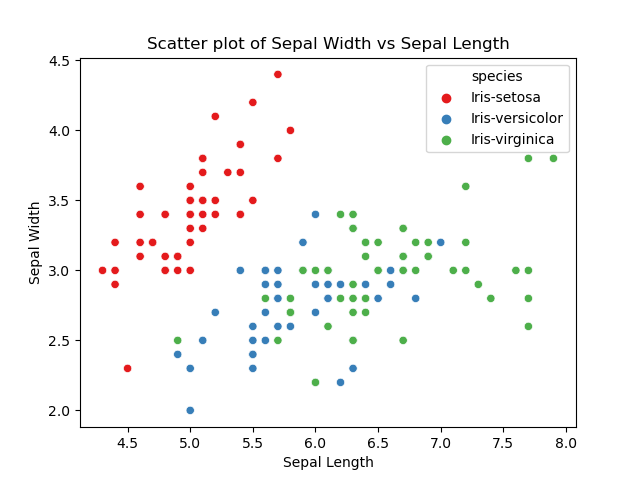
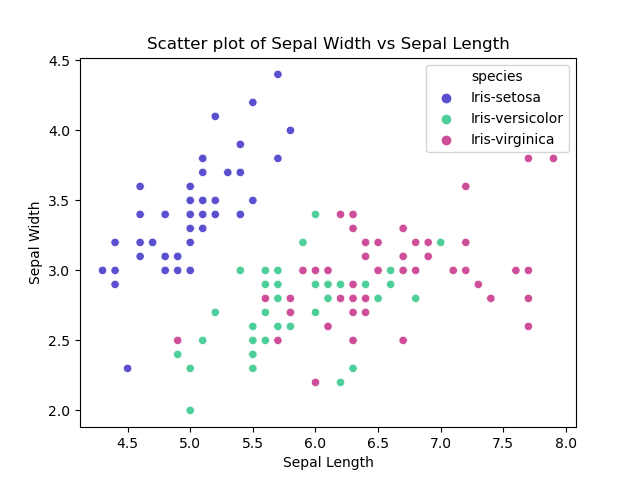
getting started section, new colour palette for plots

diff --git a/analysis.py b/analysis.py
@@ -5,8 +5,9 @@ import seaborn as sns
 
 import plotting as pt
 
-# Setting up seaborn palette of 'Set1'
-sns.set_palette("Set1")
+# Set up seaborn colour palette. #5A4FCF is the colour code for iris. 
+colors = ['#5A4FCF', '#4ECF99', '#CF4E99']
+sns.set_palette(colors)
 
 # Import the data set, add headings to the columns.
 iris = pd.read_csv("iris_data.csv", names = ['sepal_length', 'sepal_width', 'petal_length', 'petal_width', 'species'])
@@ -153,7 +154,7 @@ pt.plot_scatter(iris, hue = 'species')
 g = sns.pairplot(iris, hue = 'species')
 g.fig.suptitle('Pair Plot of the Numeric Variables in the Iris Data Set', y = 1.05)
 plt.savefig('plots\\Pair_plot.png')
-plt.close
+plt.close()
 
 
 
@@ -215,7 +216,7 @@ fig, ax = plt.subplots()
 ax.scatter(sepal_length_array, sepal_width_array)
 
 # Plotting the trend line. The y-axis values are generated from the equation of the line, with m and c equal to the values generated above.
-ax.plot(sepal_length_array, m * sepal_length_array + c, 'g-')
+ax.plot(sepal_length_array, m * sepal_length_array + c, '#CF4E99')
 
 # Axis labels.
 plt.xlabel('Sepal Length (cm)')
@@ -229,20 +230,20 @@ plt.close()
 fig, ax = plt.subplots(2, 2, figsize = (15, 10))
 
 # Regression plot between sepal length and sepal width
-sns.regplot(iris, x = 'sepal_length', y = 'sepal_width', ax = ax[0, 0])
+sns.regplot(iris, x = 'sepal_length', y = 'sepal_width', ax = ax[0, 0], ci = None)
 
 # Regression plot between sepal width and sepal length by species
-sns.regplot(setosa, x = 'sepal_length', y = 'sepal_width', ax = ax[0, 1], label = 'setosa')
-sns.regplot(versicolor, x = 'sepal_length', y = 'sepal_width', ax = ax[0, 1], label = 'versicolor')
-sns.regplot(virginica, x = 'sepal_length', y = 'sepal_width', ax = ax[0, 1], label = 'virginica')
+sns.regplot(setosa, x = 'sepal_length', y = 'sepal_width', ax = ax[0, 1], label = 'setosa', ci = None)
+sns.regplot(versicolor, x = 'sepal_length', y = 'sepal_width', ax = ax[0, 1], label = 'versicolor', ci = None)
+sns.regplot(virginica, x = 'sepal_length', y = 'sepal_width', ax = ax[0, 1], label = 'virginica', ci = None)
 
 # Regression plot between petal length and petal width
-sns.regplot(iris, x = 'petal_length', y = 'petal_width', ax = ax[1, 0])
+sns.regplot(iris, x = 'petal_length', y = 'petal_width', ax = ax[1, 0], ci = None)
 
 # Regression plot between petal length and petal width by species
-sns.regplot(setosa, x = 'petal_length', y = 'petal_width', ax = ax[1, 1], label = 'setosa')
-sns.regplot(versicolor, x = 'petal_length', y = 'petal_width', ax = ax[1, 1], label = 'versicolor')
-sns.regplot(virginica, x = 'petal_length', y = 'petal_width', ax = ax[1, 1], label = 'virginica')
+sns.regplot(setosa, x = 'petal_length', y = 'petal_width', ax = ax[1, 1], label = 'setosa', ci = None)
+sns.regplot(versicolor, x = 'petal_length', y = 'petal_width', ax = ax[1, 1], label = 'versicolor', ci = None)
+sns.regplot(virginica, x = 'petal_length', y = 'petal_width', ax = ax[1, 1], label = 'virginica', ci = None)
 
 # Add title
 plt.suptitle('Some Regression Plots for Iris Data Set')
@@ -272,9 +273,10 @@ plt.close()
 sns.pairplot(iris, hue = 'species', kind = 'reg')
 plt.suptitle('Regression Pair Plot of the Numeric Variables in the Iris Data Set', y = 1.05)
 plt.savefig('C:\\Users\\Martin\\Desktop\\pands\\pands-project\\plots\\Pair_Regression_plots.png')
+plt.close()
 
 # lmplot example. Sepal Width vs Sepal Length
-sns.lmplot(iris, x = 'sepal_length', y = 'sepal_width', col = 'species')
+sns.lmplot(iris, x = 'sepal_length', y = 'sepal_width', ci = None, col = 'species')
 plt.suptitle('Sepal Width vs Sepal Length by Species', y = 1.05)
 plt.savefig('C:\\Users\\Martin\\Desktop\\pands\\pands-project\\plots\\lmplot_example.png')
 plt.close()
@@ -319,14 +321,14 @@ print(f'slope:' , reg.coef_)
 print(f'intercept:' , reg.intercept_)
 
 # Scatter plot of petal width vs petal lenght and line plot of the predicted values.
-plt.scatter(X_train, y_train, color = 'b')
-plt.plot(X_test, y_pred, color = 'r')
+plt.scatter(X_train, y_train)
+plt.plot(X_test, y_pred, color = '#CF4E99')
 
 # Label the x-axis and y-axis
 plt.xlabel('Petal Length (cm)')
-plt.ylabel('Petal width (cm)')
-plt.savefig('plots\\linear_regression_analysis.png')
-
+plt.ylabel('Petal Width (cm)')
+plt.savefig('C:\\Users\\Martin\\Desktop\\pands\\pands-project\\plots\\lg_analysis.png')
+plt.close()
 
 
 

diff --git a/README.md b/README.md
@@ -1,61 +1,68 @@
 
-![Banner](https://github.com/IreneKilgannon/pands-project/blob/main/Fisher%E2%80%99s%20Iris%20Data%20Set.png)
+<center><img src = "Fisher’s Iris Data Set.png" alt = "iris banner"></center>
+
 
 Author: Irene Kilgannon
 
-Student ID G00220627
+Student ID: G00220627
 
-This is my analysis of the Fisher's Iris data set for the programming and scripting module.
+This is my analysis of the Fisher's Iris data set for the programming and scripting module for the [Higher Diploma in Science in Computing in Data Analytics](https://www.gmit.ie/higher-diploma-in-science-in-computing-in-data-analytics) at Atlantic Technological University.
 
-## Making a plan
-1. Using a readme for discussion  ~~decided~~.
-2. background research add some images
-3. write summary statistics to .txt file -  ~~done~~. Discussion next
-4. histograms - created a function, Create a module with all the plotting files?. Add discussion
-5. scatter plot /pair plot between all the variables. Add discussion
-6. perhaps some linear regression plots. DONE
-7. calculate correlation coefficients, ~~fix labels on heatmap~~. add discussion
-8. regression analysis https://campus.datacamp.com/courses/introduction-to-regression-with-statsmodels-in-python/simple-linear-regression-modeling?ex=1
-9. machine learning sklearn
+## Left to do
 
-
-Ideally I would create modules, with all the functions required for the file and import them. Having trouble with this. Probably classes would be better but I don't understand, know enough about them!
+NB add literature comparison, add more references where ever needed. 
+1. background research  images
+2. Get started section
+4. Summary statistics. use groubpy by, Improve Discussion
+5. histograms. review
+6. scatter plot. review
+7. correlation coefficients, review 
+8. regression analysis and machine learning https://campus.datacamp.com/courses/introduction-to-regression-with-statsmodels-in-python/simple-linear-regression-modeling?ex=1  add code comments, discussion, 
 
 ## Project Statement
-* Research the data set and summarise it in a README.
-* Download the data set and add it to my repository.
-* Write a program called analysis.py: 
-    1. outputs a summary of each variable to a single text file
-    2. saves a histogram of each variable to png files
-    3. outputs a scatter plot of each pair of variables
-    4. any other analysis - suggested machine learning or regression analysis?? LEARN about them.
+* Research the data set and summarise it in a [README](https://github.com/IreneKilgannon/pands-project/blob/main/README.md).
+* Download the data set and add it to my [GitHub repository](https://github.com/IreneKilgannon/pands-project).
+* Write a program called [analysis.py](https://github.com/IreneKilgannon/pands-project/blob/main/analysis.py): 
+    1. outputs a summary of each variable to a single text file, [analysis.txt](https://github.com/IreneKilgannon/pands-project/blob/main/analysis.txt)
+    2. saves a histogram of each variable to png files.
+    3. outputs a scatter plot of each pair of variables.
+    4. any other analysis.
 
-## How to install
+## Getting Started
 
-## How to use it
+__Step 1__ Download and install [Anaconda](https://www.anaconda.com/download). Anaconda is a Python distributon package and comes with pre-installed packages such as [pandas](https://pandas.pydata.org/docs/user_guide/index.html#user-guide), [NumPy](https://numpy.org/doc/stable/user/whatisnumpy.html), [Matplotlib](https://matplotlib.org/) and [Seaborn](https://seaborn.pydata.org/) which are required for this project. Please note that when installing Anaconda it is important to check the two boxes for:
+  * Add Anaconda3 to my PATH environment 
+  * Make this version your default Python
+  
+![Anaconda](Anaconda.png)
 
-## Files in this project
-analysis.py
+__Step 2__ Download and install [Visual Studio Code](https://code.visualstudio.com/).
 
-analysis.ipynb
+__Step 3__ Each file was written in VScode and pushed to [my GitHub account](https://github.com/IreneKilgannon) for assessment.
 
-iris.data
+__Step 4__ To clone from GitHub enter the following in the command line:
 
-README.md
+    git clone https://github.com/IreneKilgannon/pands-project.git
 
-plots directory with all the plots generated for this analysis
+
+## Get Help
+
+If you have any questions or queries you can contact me at g00220627@atu.ie or alternatively [submit an issue](https://github.com/IreneKilgannon/pands-project/issues).
+
+
+***
 
 # Background to Fisher's Iris Data Set
 
-In 1928 Edgar Anderson published his paper entitled ['The Problem of Species in the Northern Blue Flags, _Iris versicolor_ and _Iris virginica_'](https://www.biodiversitylibrary.org/page/15997721). Anderson was a evolutionary biologist interested in answering two questions namely, what are species and how have they originated? Between 1923 and 1928 he and his team studied _Iris versicolor_, at a number of different sites from Ontario in Canada to Alabama in the United States, by measuring a number of different iris characteristics. Surprisingly his study found that there were actually two different iris species present, _Iris versicolor_ and _Iris virginia_ and that it was possible to differentiate between them by geographic location. This is reflected in the [common names of these two species of iris](https://hgic.clemson.edu/factsheet/rain-garden-plants-iris-versicolor-and-iris-virginica/). _Iris versicolor_ is commonly known as the Northern blue flag iris and _Iris virginica_ is commonly known as the Southern blue flag iris.
+In 1928 Edgar Anderson published his paper entitled ['The Problem of Species in the Northern Blue Flags, _Iris versicolor_ and _Iris virginica_'](https://www.biodiversitylibrary.org/page/15997721). Anderson was a evolutionary biologist interested in answering two questions namely, what are species and how have they originated? Between 1923 and 1928 he and his team studied _Iris versicolor_, at a number of different sites from Ontario in Canada to Alabama in the United States, by measuring a number of different iris characteristics. Surprisingly his study found that there were actually two iris species present, _Iris versicolor_ and _Iris virginia_ and that it was possible to differentiate between them by geographic location. This is reflected in the [common names of these two species of iris](https://hgic.clemson.edu/factsheet/rain-garden-plants-iris-versicolor-and-iris-virginica/). _Iris versicolor_ is commonly known as the Northern blue flag iris and _Iris virginica_ is commonly known as the Southern blue flag iris.
 
-ADD IMAGE TO BREAK UP THE TEXT
+![Ronald Fisher in 1913](https://en.wikipedia.org/wiki/Ronald_Fisher#/media/File:Youngronaldfisher2.JPG)
 
-The data set is commonly known as Fisher's Iris Data set after the statistician and biologist, Ronald Fisher. The data measurements for _Iris setosa_ and _Iris versicolor_ were collected by Anderson from the same colony of plants in the Gaspé Peninsula, Quebec in 1935. According to [Unwin and Kleinman](hhttps://academic.oup.com/jrssig/article/18/6/26/7038520) the _Iris virginica_ data samples were from Anderson's original research and were collected in Camden, Tennessee. Fisher collated and analysed the data and in 1936 published his results in the Annals of Eugenics [The Use of Multiple Measurements in Taxonomic Problems](https://onlinelibrary.wiley.com/doi/epdf/10.1111/j.1469-1809.1936.tb02137.x). He used a statistical method, linear discriminant analysis to attempt to distinguish the different iris species from each other. He found that _Iris setosa_ was easily distinguishable from the other two iris species using this method. 
+The data set is commonly known as Fisher's Iris Data set after the statistician and biologist, [Ronald Fisher](https://en.wikipedia.org/wiki/Ronald_Fisher). The data measurements for _Iris setosa_ and _Iris versicolor_ were collected by Anderson from the same colony of plants in the Gaspé Peninsula, Quebec in 1935. According to [Unwin and Kleinman](hhttps://academic.oup.com/jrssig/article/18/6/26/7038520) the _Iris virginica_ data samples were from Anderson's original research and were collected in Camden, Tennessee. Fisher collated and analysed the data and in 1936 published his results in the Annals of Eugenics [The Use of Multiple Measurements in Taxonomic Problems](https://onlinelibrary.wiley.com/doi/epdf/10.1111/j.1469-1809.1936.tb02137.x). He used a statistical method, linear discriminant analysis to attempt to distinguish the different iris species from each other. He found that _Iris setosa_ was easily distinguishable from the other two iris species using this method. 
 
-![Image from Fisher's paper](https://github.com/IreneKilgannon/pands-project/blob/main/fisher_data_set_image.png)
+![Image from Fisher's paper](fisher_data_set_image.png)
 
-Fisher's data set can viewed in his published paper but, in our computer age, the data set is available to download at [UCI Maching Learning Repository](https://archive.ics.uci.edu/dataset/53/iris). The data set is very widely used with currently over 700,000 views of the data set on the UCI website.
+Fisher's data set can viewed in his published paper but, in our computer age, the data set is available to download at [UCI Maching Learning Repository](https://archive.ics.uci.edu/dataset/53/iris). The data set is still very widely used with currently over 700,000 views of the data set on the UCI website. It is worth mentioning that there is a move away from using this data set 
 
 Fisher and racism  -do i put it in?
 
@@ -63,16 +70,17 @@ https://profjoecain.net/what-is-wrong-ronald-aylmer-fisher/
 
 https://www.newstatesman.com/long-reads/2020/07/ra-fisher-and-science-hatred
 
-https://www.nature.com/articles/s41437-020-00394-6
+https://www.nature.com/articles/s41437-020-00394-6  
 
 ## Import the Required Modules.
 
-Four modules are required for this analysis:
+The following modules are required for this analysis:
 
 * [pandas](https://www.w3schools.com/python/pandas/pandas_intro.asp) - for manipulating data and for performing data analysis.
 * [numpy](https://www.w3schools.com/python/numpy/default.asp) - performs a wide variety of mathematical calculations on arrays.
 * [matplotlib.pyplot](https://www.geeksforgeeks.org/python-introduction-matplotlib/) - used to create plots e.g. bar plots, scatter plots, histograms.
 * [seaborn](https://realpython.com/python-seaborn/) - a python data visualisation library based on matplotlib. Usually requires less code syntax than matplotlib.
+* [plotting](https://github.com/IreneKilgannon/pands-project/blob/main/plotting.py) - a module I developed that will create and save seaborn histograms and seaborn scatter plots for all the numeric data in a data set. __IF I CAN DEVELOP FURTHER TO PRINT FIG, AX PLOTS.__
 
 ```python
 import numpy as np
@@ -721,6 +729,10 @@ https://www.geeksforgeeks.org/python-basics-of-pandas-using-iris-dataset/
 
 ## References
 
+www.canva.com
+
+https://blog.hubspot.com/website/center-an-image-in-html#why-center-images-in-html-and-css
+
 __Write output to a file in python__
 
 In the command line use of file_name.py > outout_file_name.txt https://www.reddit.com/r/learnpython/comments/12emhsa/how_do_i_save_the_output_of_the_python_code_as_a/
@@ -759,6 +771,8 @@ r-squared https://statisticsbyjim.com/regression/interpret-r-squared-regression/
 __Machine Learning__
 
 https://www.kaggle.com/code/ash316/ml-from-scratch-with-iris
+
+
 
 __ Literature search Recent uses of the iris data set__ 
 
